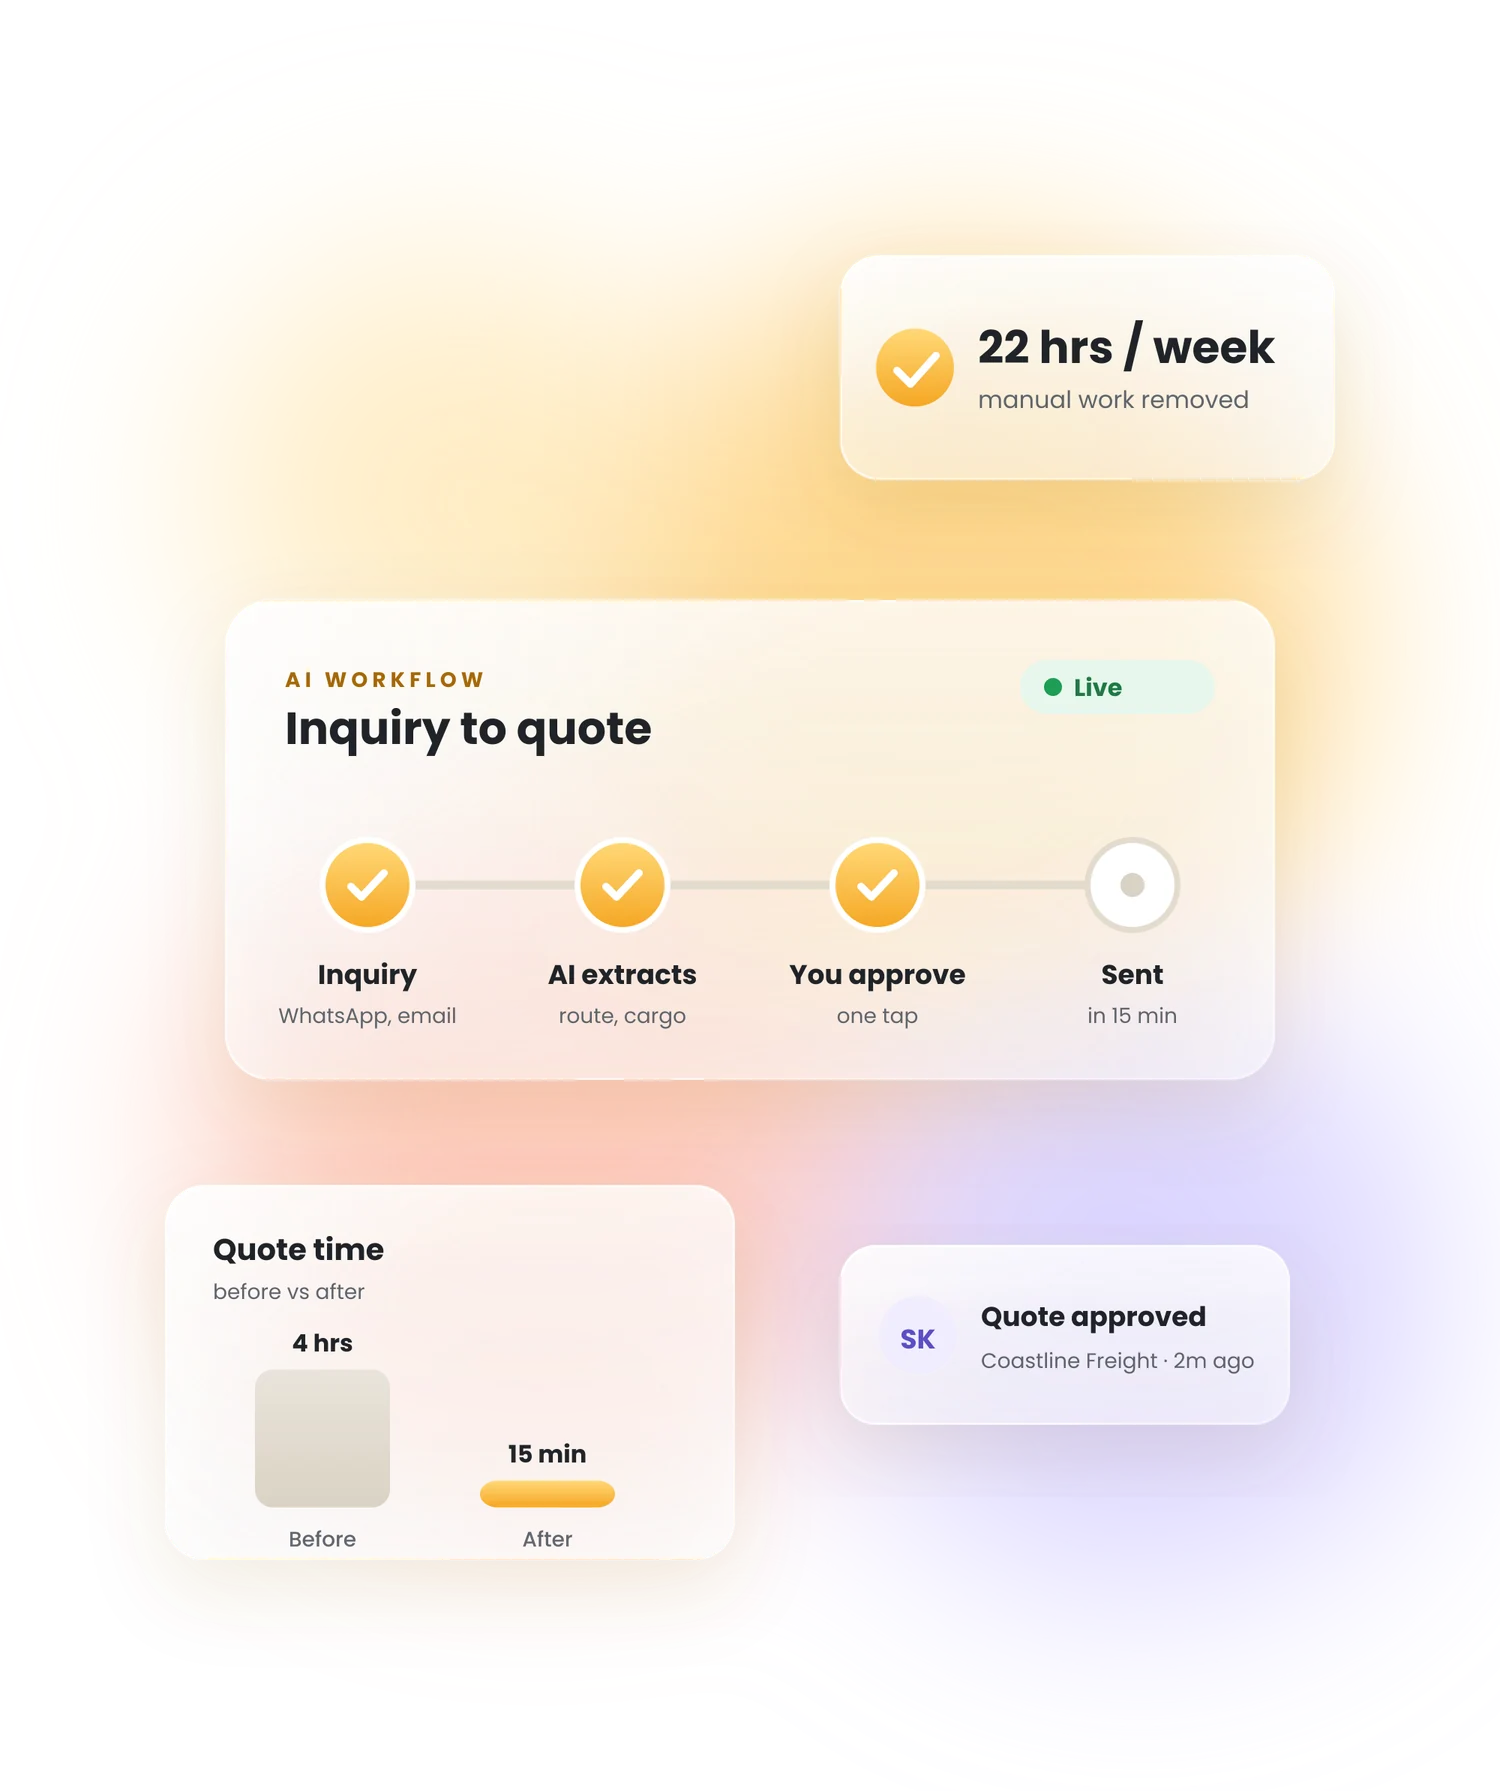
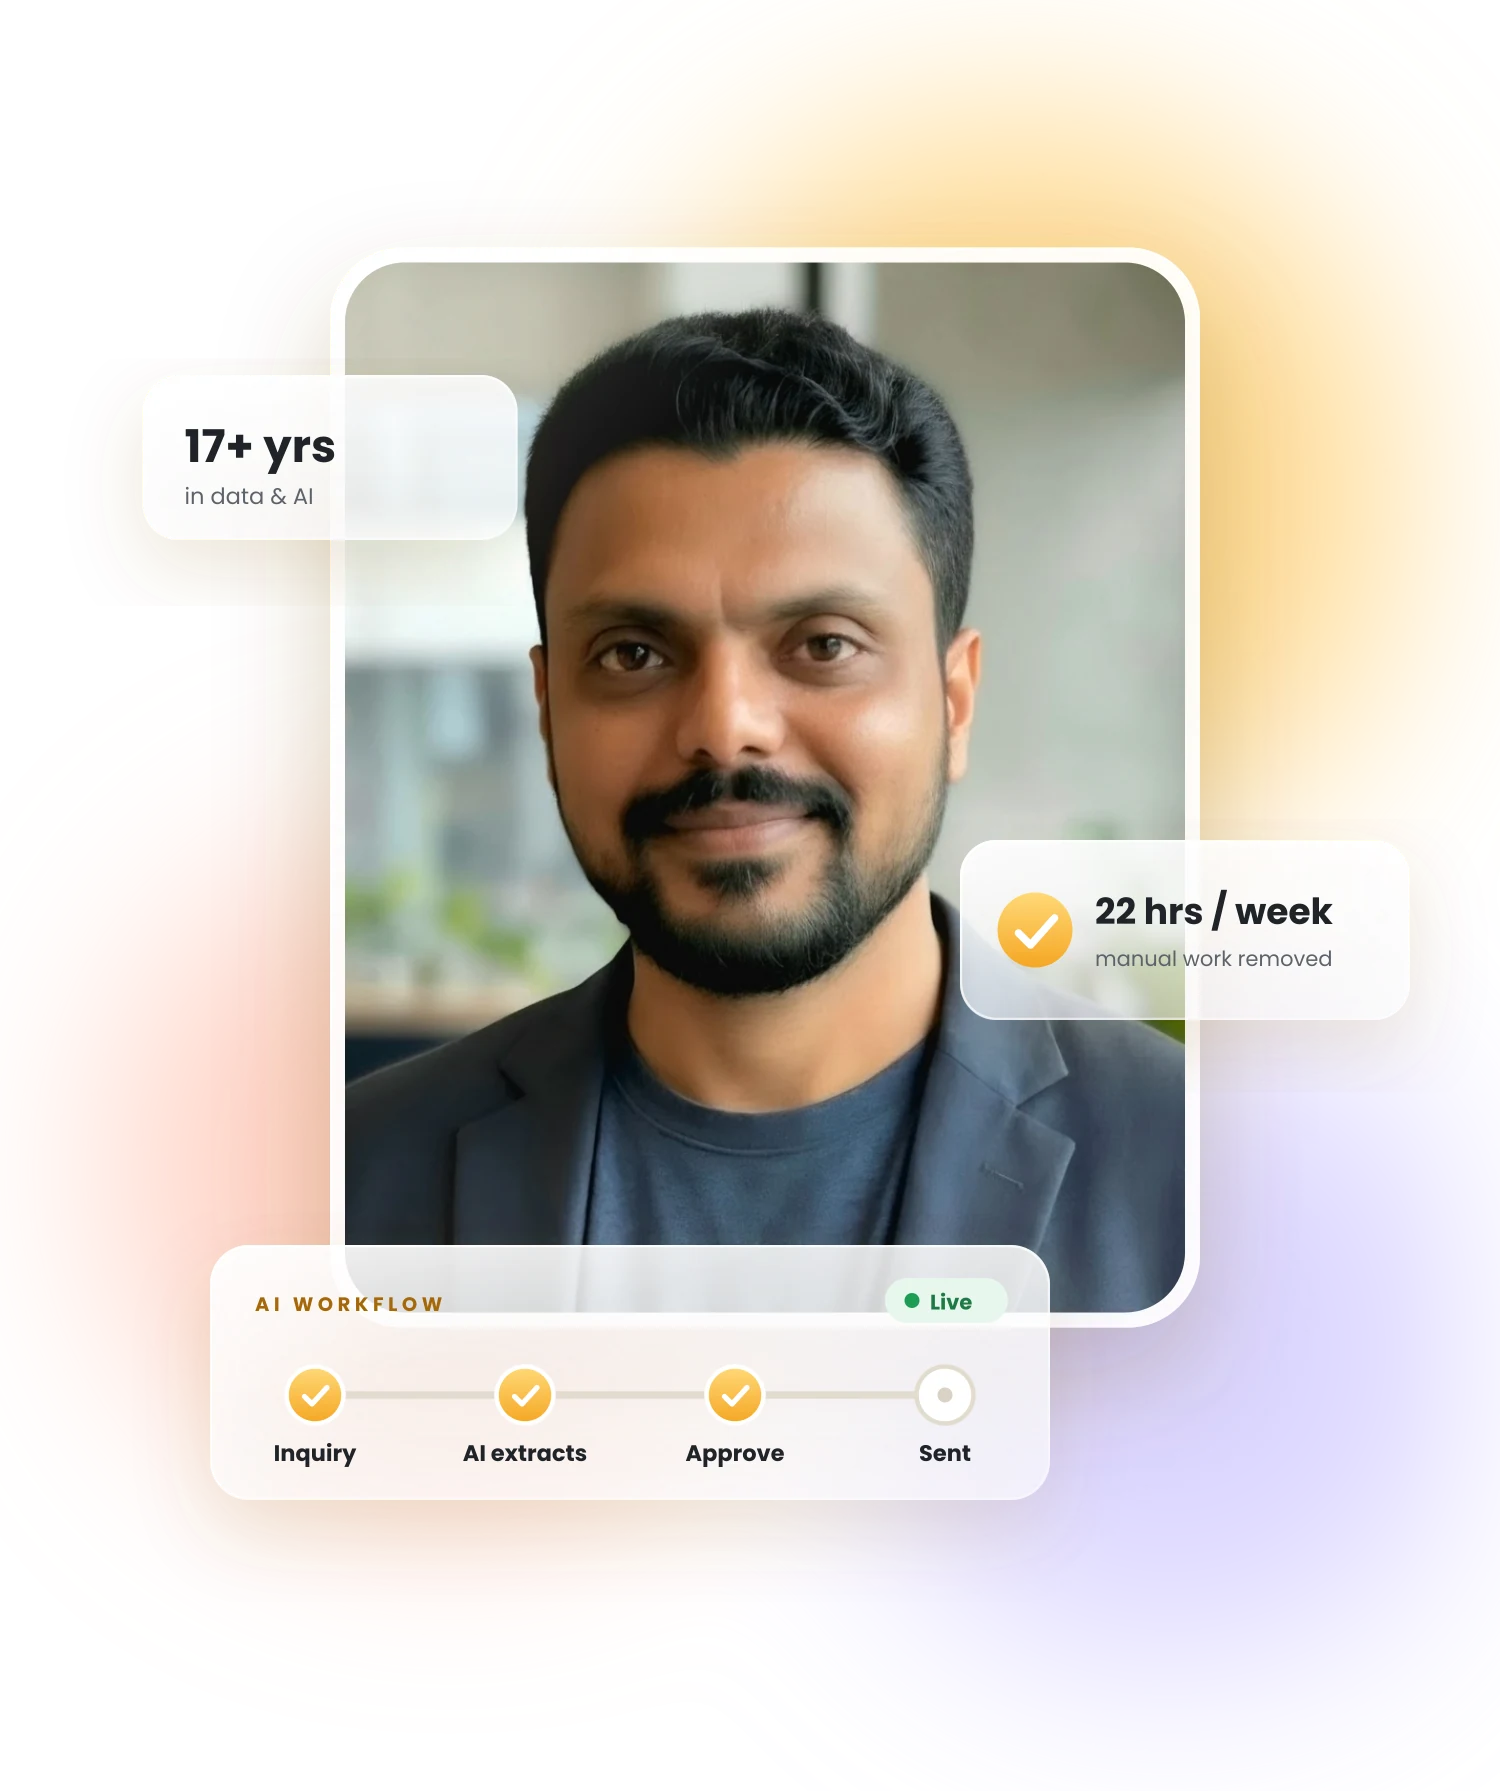
Add Sahil's photo to the hero and About section
- Hero: photo in a glossy rounded card with floating glass chips
  (17+ years, 22 hrs/week saved, AI workflow progress)
- About: square headshot (images/profile.jpg) replaces the SK monogram
- Phones and tablets: round headshot above the hero greeting

Claude-Session: https://claude.ai/code/session_01JxZweuyQYu4Quf7vREnBaY

diff --git a/index.html b/index.html
@@ -56,12 +56,13 @@
           <div class="overlay"></div>
           <div class="container">
             <div class="row d-md-flex no-gutters slider-text align-items-end justify-content-end" data-scrollax-parent="true">
-              <!-- Replace images/hero.webp with your own photo (same size works best: 1000 x 1194) -->
+              <!-- Hero illustration with photo: images/hero.webp (1500 x 1791, transparent) -->
               <div class="one-third js-fullheight order-md-last img" style="background-image:url(images/hero.webp);">
                 <div class="overlay"></div>
               </div>
               <div class="one-forth d-flex align-items-center ftco-animate" data-scrollax=" properties: { translateY: '70%' }">
                 <div class="text">
+                  <img src="images/profile.jpg" alt="Sahil Kamdar" class="hero-avatar">
                   <span class="subheading">Hello!</span>
                   <h1 class="mb-4 mt-3">I'm <span>Sahil Kamdar</span></h1>
 
@@ -91,8 +92,7 @@
                   <div class="row about-mf">
                     <div class="col-sm-6 col-md-5">
                       <div class="about-img">
-                        <!-- Replace images/profile.png with a square headshot -->
-                        <img src="images/profile.png" class="img-fluid rounded b-shadow-a" alt="Sahil Kamdar">
+                                                <img src="images/profile.jpg" class="img-fluid rounded b-shadow-a" alt="Sahil Kamdar">
                       </div>
                     </div>
                     <div class="col-sm-6 col-md-7">

diff --git a/css/theme-gloss.css b/css/theme-gloss.css
@@ -166,3 +166,19 @@ body { background: transparent !important; }
   .owl-carousel.home-slider .slider-item .slider-text .one-third { background-image: none !important; }
   .owl-carousel.home-slider .slider-item .slider-text .one-third .overlay { opacity: 0 !important; }
 }
+
+/* Round headshot above the hero text, phones and tablets only */
+#home-section img.hero-avatar { display: none !important; }
+@media (max-width: 991.98px) {
+  #home-section img.hero-avatar {
+    display: block !important;
+    width: 104px !important; height: 104px !important;
+    max-width: 104px !important;
+    margin: 0 auto 14px !important;
+    border-radius: 50% !important;
+    object-fit: cover;
+    border: 4px solid rgba(255, 255, 255, 0.95);
+    box-shadow: 0 14px 30px -12px rgba(138, 90, 16, 0.45);
+  }
+}
+.about-mf .about-img img { object-fit: cover; aspect-ratio: 1 / 1; }

diff --git a/README.md b/README.md
@@ -31,6 +31,6 @@ python3 -m http.server 8000
 
 ## Personalize
 
-- `images/hero.webp` (1000 × 1194) and `images/profile.png` (square) are placeholder graphics. Replace them with your own photos using the same file names.
+- `images/hero.webp` is the hero picture (photo card with glass chips) and `images/profile.jpg` is the square headshot used in About and on phones.
 - Example deliverables for the consulting page live in `images/work/`. For the other services, put images in `images/work/<page-name>/` and copy the "What you receive" block from `consulting.html` into the marked spot in that page.
 - Page text, prices and links are in the `.html` files; shared styles are in `css/custom.css`.
